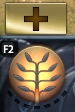
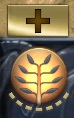
up

diff --git a/web/index.html b/web/index.html
@@ -39,23 +39,23 @@
 
       <h2>Preface</h2>
 
-      <p>A layout should make sense: mechanically and visually.</p>
+      <p>A layout should make sense: both visually and mechanically.</p>
 
-      <p>The more intuitive it is — the better for performance.</p>
+      <p>The more intuitive it is, the easier it is to use, the less mistakes you're going to make and the faster you're going to execute on your decisions.</p>
+      
+      <p class="mt2">Even if your decision are really bad, at least you will no longer be limited by the execution.</p>
 
-      <p class="mt2">I'm reasonably confident: this is the best Dota 2 hotkey layout and settings possible.</p>
+      <p class="mt4">Think about it: the layout is the only way you interact with the game. So it's extremely important to have a great one. It has to be an extension of your mind.</p>
+
+      <p class="mt2">On this page you will read a very extensive explanation of the etofok layout for Dota 2. This is the best Dota 2 hotkey layout and settings possible. In my opinion. That's what I use. You don't have to use it.</p>
   
-      <p>It's a strong statement — and I'm going to explain the logic behind all this on this page.</p>
-
-      <p class="mt2">p.s. it's quite extensive</p>
+      <p class="mt2">I will present the hotkeys and then I'm going to explain the logic behind every decision for every hotkey and for every in-game setting.</p>
 
     </div>
 
     <div class="scrolldown-arrow" id="scroll-arrow-hero"></div>
 
   </div>
-
-
 
 
   <div class="section-main nocontextmenu">
@@ -71,7 +71,7 @@
         <li><b>Select Group 1:</b> <kbd>1</kbd></li>
         <li><b>Select Group 2:</b> <kbd>2</kbd></li>
         <li><b>Select Group 3:</b> <kbd>3</kbd></li>
-        <li><b>Select All Other Units:</b> <kbd>~</kbd></li>
+        <li><b>Select All Other Units:</b> <kbd>`</kbd> (tilde)</li>
         <li><b>Select Courier:</b> <kbd>F1</kbd></li>
 
         <div class="separator"></div>
@@ -112,14 +112,11 @@
 
         <div class="separator"></div>
 
-        <li><b>Select Talent Menu:</b> <kbd>F3</kbd></li>
-        <li><b>Select Talent 1:</b> <kbd>1</kbd></li>
-        <li><b>Select Talent 2:</b> <kbd>2</kbd></li>
+        <li><b>Chat Wheel:</b> <kbd>F2</kbd></li>
 
         <div class="separator"></div>
 
-        <li><b>Chat Wheel:</b> <kbd>F2</kbd></li>
-        <li><b>Scoreboard:</b> <kbd>F5</kbd></li>
+        <li><b>Unused Hotkeys:</b> <kbd>4</kbd> <kbd>5</kbd> <kbd>F2</kbd> <kbd>F3</kbd> <kbd>F4</kbd> <kbd>F5</kbd> <kbd>Y</kbd> <kbd>H</kbd> </li>
 
       </ul>
     </div>
@@ -475,17 +472,25 @@
     <!-- --- --- --- -->
     <div class="wrap-section-block">
 
-      <h2>Talents</h2>
+      <h2>Select Talent</h2>
         
-      <p>I found having a hotkey for <act>Select Talent</act> more comfortable than not having it.</p>
+      <p>This hotkey is not something that you use very often.</p>
+      <p>Literally up to 8 times in a very long game.</p>
+      
+      <p class="mt2">But there was a period of my life when I was a Turbo enjoyer and in Turbo I found it very valuable, because you often get a level mid-fight, which means you can really benefit from quickly selecting a talent.</p>
+
+      <p class="mt2">So I found having a hotkey for <act>Select Talent</act> more comfortable than not having it.</p>
 
       <img class="nocontextmenu" src="assets/images/options/SelectTalent.jpg" alt="">
 
-      <p><act>Select Talent</act> is related to <act>Select</act> and our next available key is <kbd>F2</kbd></p>
+      <p><act>Select Talent</act> is <b>fantastic</b> on <kbd>`</kbd> (tilde), because you then select the left-or-right talent with <kbd>1</kbd> or <kbd>2</kbd> which are right next to it. It's instant and makes perfect sense.</p>
 
+      <p class="mt2">However, if you use <act>Select Other Units</act> with <kbd>`</kbd> (tilde), then please continue.</p>
+      <p>The tilde key is too good to waste it.</p>
+      <p>Just use one of the unused hotkeys such as <kbd>F3</kbd>, <kbd>F4</kbd> or <kbd>H</kbd></p>
             
       <ul>
-        <li><b>Select Talent Menu:</b> <kbd>F2</kbd></li>
+        <li><b>Select Talent Menu:</b> <kbmod>Alt</kbmod>+<kbd>`</kbd> or <kbd>F3</kbd></li>
         <li><b>Select Talent 1:</b> <kbd>1</kbd></li>
         <li><b>Select Talent 2:</b> <kbd>2</kbd></li>
       </ul>
@@ -656,14 +661,15 @@
 
       <p>I use <act>115%</act> and <act>Extra Large Minimap</act> because my eye-sight is no longer perfect.</p>
       
-      <p>Turns out: life is — indeed — very short.</p>
+      <p>Turns out, life is — indeed — very short. I have played Dota 1 on dial-up connection on Battle.net in 3rd grade. It's been, what, 23 years since? It's mind boggling how much have changed in the world, politics, technology, just people dying.</p>
 
-      <p>Make sure you played enough Dota 2 — you can't take it with you.</p>
+      <p class="mt2">Make sure you played enough Dota 2 — you can't take it with you.</p>
       
       <p class="mt2"><act>Map Background: Simple</act> has less visual noise and is neutral-gray.</p>
-      <p>Hero icons stand out more.</p>
+      <p>Hero icons stand out more. But I'm also color blind so that might be a factor here.</p>
       
-      <p class="mt2"><act>Dynamically scale hero icons</act> makes them lose their consistency. I find it distracting.</p>
+      <p class="mt2"><act>Dynamically scale hero icons</act> makes them lose their consistency.</p>
+      <p>I find it distracting, so I do not use it.</p>
 
     </div>
 
@@ -694,7 +700,7 @@
 
       <h2>Labs</h2>
         
-      <p>These are next-level gameplay options.</p>
+      <p>These are some next-level gameplay options.</p>
   
       <img class="nocontextmenu hero" src="assets/images/options/labs.jpg" alt=""> 
 
@@ -702,10 +708,13 @@
 
       <p class="mt2"><act>Interact only with Hero Units</act> might prevent you from wasting <spell>Doom</spell><img class="nocontextmenu heroicon" src="assets/images/spellicon/doom.jpg" alt=""> on a creep.</p>
 
-      <p class="mt2"><act>Interact only with Non-Hero Units</act> is a cheat code for snatching <spell>Bounty Runes</spell><img class="nocontextmenu heroicon" src="assets/images/neutralicon/bountyrune.jpg" alt=""> or <spell>Wisdom Runes</spell><img class="nocontextmenu heroicon" src="assets/images/neutralicon/wisdomrune.jpg" alt=""> under everyone's noses.</p>
+      <p class="mt2"><act>Interact only with Non-Hero Units</act> is a cheat code for snatching <spell>Bounty Runes</spell><img class="nocontextmenu heroicon" src="assets/images/neutralicon/bountyrune.jpg" alt=""> or, previously, <spell>Wisdom Runes</spell><img class="nocontextmenu heroicon" src="assets/images/neutralicon/wisdomrune.jpg" alt="">.</p>
 
-      <p class="mt2">I personally only use the last one, but that's 100% a skill issue.</p>
+      <p class="mt2">The problem is dedicating keys to these modifiers.</p>
 
+      <p>I feel like you need actual extra keys on your keyboard to use these, for example the macro keys on Razer Blackwidow or Logitech G915 (this is not an advertisement, just an example).</p>
+      
+      <p class="mt2">p.s. in fact, I have used the Blackwidow (two actually) for like 7 years, but as for today it's no longer my choice.</p>
 
 
     </div>  
@@ -725,27 +734,25 @@
 
       <p>2. Your aim is worse, because your grip is worse.</p>
       
-      <p>3. Your hand gets more strained, because it's always in this 'preparing to press' mode.</p>
+      <p>3. Your hand is more strained, because of the bad grip.</p>
      
-      <p class="mt2">Honestly, it's very hard to explain the true effect.</p>
+      <p class="mt2">Honestly, it's very hard to explain the true effect, and I encourage you to experiment. Listen to your body.</p>
 
-      <p class="mt2">I've personally used <kbd>Mouse side button 1</kbd> for my <spell>Blink Dagger</spell><img class="nocontextmenu heroicon" src="assets/images/itemicon/blinkdagger.jpg" alt=""> for probably 15 years.</p>
+      <p class="mt2">I've used <kbd>Mouse side button 1</kbd> for my <spell>Blink Dagger</spell><img class="nocontextmenu heroicon" src="assets/images/itemicon/blinkdagger.jpg" alt=""> for about <b>15 years</b> (!).</p>
 
-      <p>I felt like I need that extra button — but I just had a bad keyboard layout.</p>
+      <p>I felt like I need that extra button — but I just had a bad keyboard layout, so I had to compensate with putting buttons on the mouse.</p>
 
-      <p class="mt2">I decided to fix my hotkeys, so that I could move away from that practice.</p>
+      <p class="mt2">So one day (after playing years of Starcraft 2), I decided to fix my hotkeys.</p>
 
-      <p>And I started to feel 'lighter'. Quicker.</p>
+      <p>And everything started to feel 'lighter'. Quicker.</p>
    
-      <p>My carpal tunnel started to heal.</p>
-
-      <p class="mt2">On top of that, it got mentally easier, because all my items got visually coherent.</p>
+      <p class="mt2">On top of that, it got <b>mentally easier</b>, because all my buttons got visually and psychologically coherent.</p>
      
-      <p>The positive effect was especially noticeable on item intensive heroes like <spell>Tinker</spell><img class="nocontextmenu heroicon" src="assets/images/heroicon/tinker.jpg" alt="">.</p>
+      <p>Every part of your gameplay will benefit from having a better interface between your brain and your fingers.</p>
 
-      <p class="mt2">I highly recommend against binding actions to mouse's side buttons whenever possible.</p>
+      <p class="mt4">p.s. So, in conclusion I highly recommend against binding actions to mouse side buttons whenever possible.</p>
 
-      <p class="mt2">p.s. just bind <kbd>Enter</kbd> & <kbd>Backspace</kbd> instead. Trust me.</p>
+      <p>p.p.s. Bind <kbd>Enter</kbd> & <kbd>Backspace</kbd> as your mouse side buttons instead. This is THE BEST use of these keys.</p>
 
     </div>    
 
@@ -785,7 +792,7 @@
 
     <p>written and produced by <a href="https://linktr.ee/etofok" target="_blank">etofok</a> 2025</p>
 
-    <p>etofok is not affiliated with or endorsed by Valve. All relevant trademarks belong to their respective owners.</p>
+    <p>etofok is not affiliated with or endorsed by Valve. Sad, but fair. All relevant trademarks belong to their respective owners.</p>
 
   </div>
 
